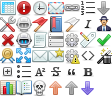
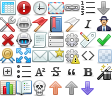
this is why i suck at editing image
accidentally removed the transparent icon :(
this put it back.

Changed region(s): [[0.8571, 0.5, 1.0, 0.8438]]

diff --git a/terriblename.css b/terriblename.css
@@ -1700,7 +1700,7 @@ input[type=password] {
   background-position: -64px 0px;
 }
 .icon-menu .edit-stylesheet::before {
-  background-position: -96px -48px;
+  background-position: -96px -64px;
 }
 .icon-menu .wikiaction-revisions::before {
   background-position: -32px 0px;

diff --git a/scss/_icons.scss b/scss/_icons.scss
@@ -180,7 +180,7 @@
   }
 
   .edit-stylesheet::before {
-    background-position: -96px -48px;
+    background-position: -96px -64px;
   }
 
   .wikiaction-revisions::before {
